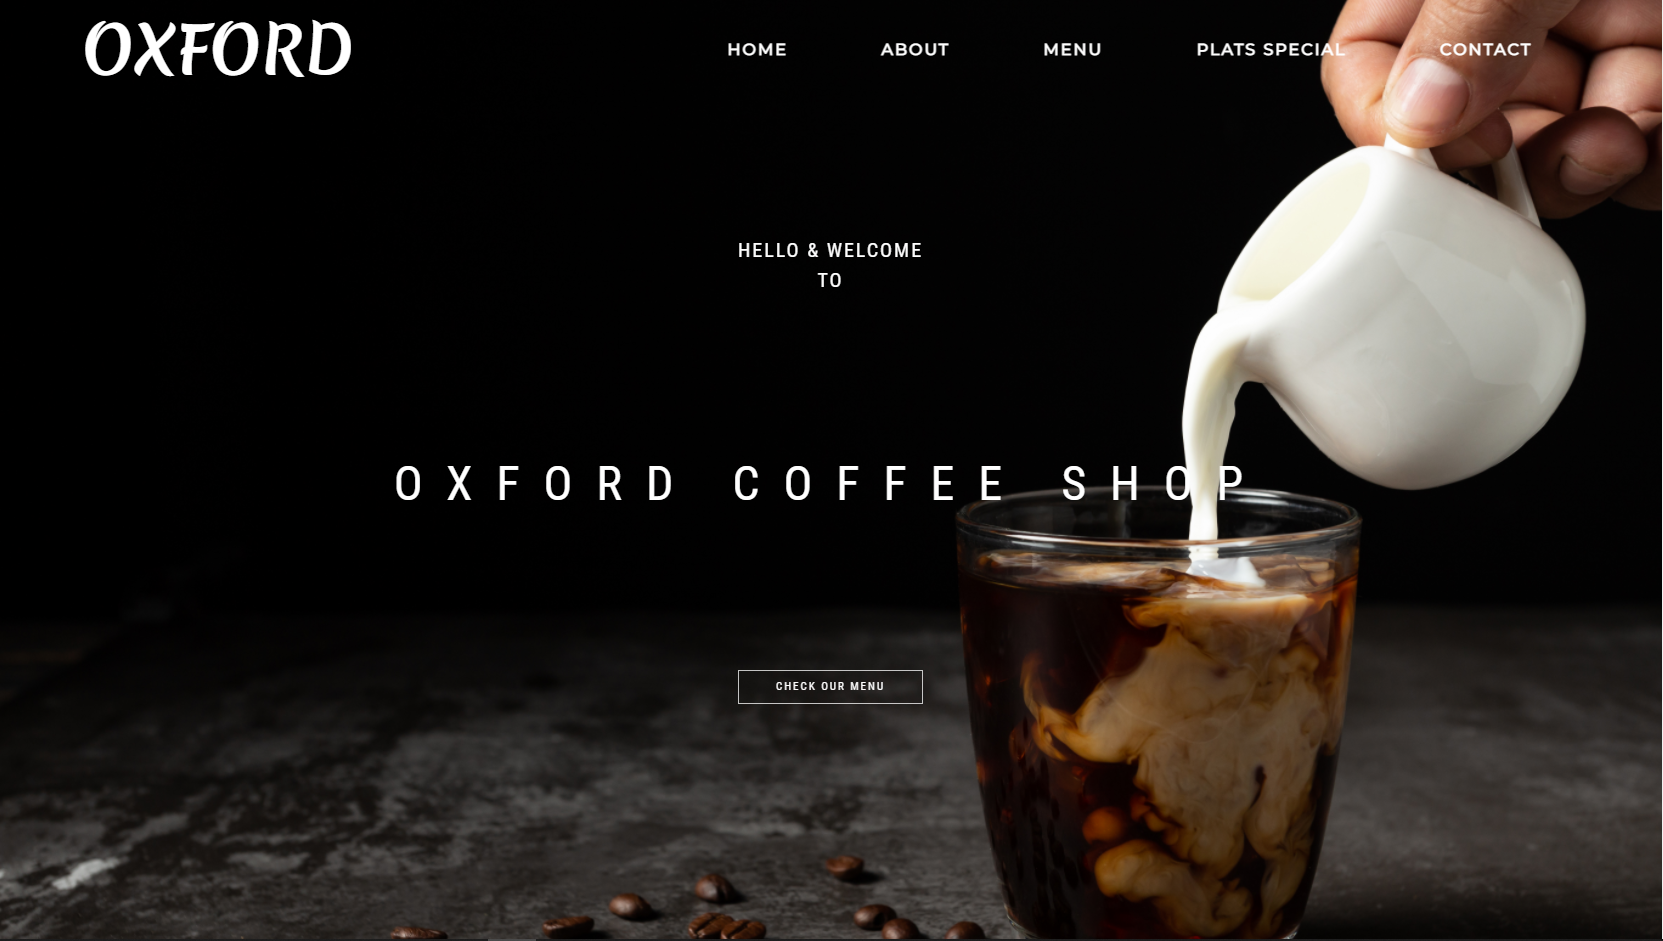
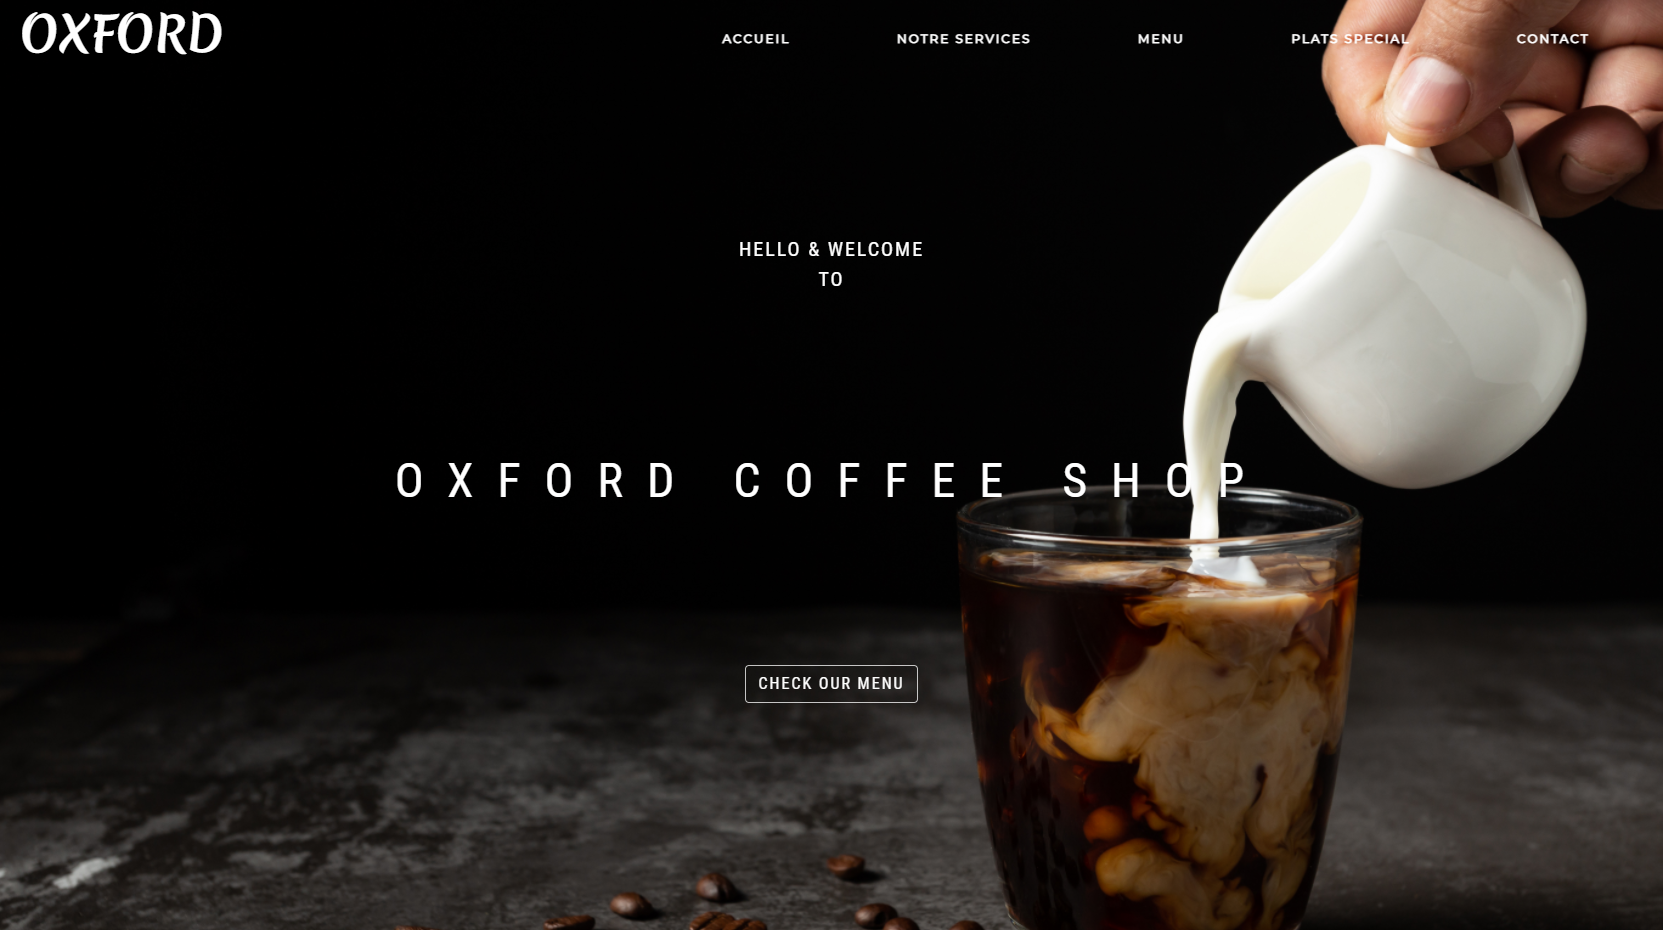
Final commit

diff --git a/index.html b/index.html
@@ -40,8 +40,8 @@
 
             <div class="logo">OXFORD</div>
             <ul class="links">
-                <li><a href="#home">Home</a></li>
-                <li><a href="#services">About</a></li>
+                <li><a href="#home">Accueil</a></li>
+                <li><a href="#services">Notre Services</a></li>
                 <li><a href="#menu">Menu</a></li>
                 <li><a href="#specialities">Plats special</a></li>
                 <li><a href="#footer">Contact</a></li>
@@ -71,13 +71,13 @@
             <div class="row">
                 <div class="col-sm-12 col-sm-offset-2">
                     <div class="alt-module-subtitle">
-                        <h5 class="font-serif">For your comfort</h5>
+                        <h5 class="font-serif">Pour votre confort</h5>
                     </div>
                 </div>
             </div>
             <div class="row">
                 <div class="col-sm-12 col-sm-offset-2">
-                    <h2 class="module-title font-alt">Our Services</h2>
+                    <h2 class="module-title font-alt">Notre Services</h2>
                 </div>
             </div>
 
@@ -89,8 +89,8 @@
                         <div class="features-icon fa-4x">
                             <i class="far fa-clock "></i>
                         </div>
-                        <h3 class="features-title font-alt">Opened 24/7</h3>
-                        Careful attention to detail and clean, well structured code ensures a smooth user experience for all your visitors.
+                        <h3 class="features-title font-alt">Ouvert 24/7</h3>
+                        Lorem ipsum dolor sit amet consectetur adipisicing elit. Consequatur assumenda ab harum praesentium? Ipsa, corrupti.
                     </div>
                 </div>
                 <div class="col-sm-12 col-md-3 col-lg-3">
@@ -98,8 +98,8 @@
                         <div class="features-icon fa-4x">
                             <i class="fas fa-shipping-fast "></i>
                         </div>
-                        <h3 class="features-title font-alt">livreson</h3>
-                        Careful attention to detail and clean, well structured code ensures a smooth user experience for all your visitors.
+                        <h3 class="features-title font-alt">Livreson</h3>
+                        Lorem ipsum dolor sit amet consectetur adipisicing elit. Consequatur assumenda ab harum praesentium? Ipsa, corrupti.
                     </div>
                 </div>
 
@@ -107,8 +107,8 @@
                     <div class="features-icon fa-4x">
                         <i class="fab fa-periscope"></i>
                     </div>
-                    <h3 class="features-title font-alt">Central Location</h3>
-                    Careful attention to detail and clean, well structured code ensures a smooth user experience for all your visitors.
+                    <h3 class="features-title font-alt">Localisation</h3>
+                    Lorem ipsum dolor sit amet consectetur adipisicing elit. Consequatur assumenda ab harum praesentium? Ipsa, corrupti.
                 </div>
 
 
@@ -117,8 +117,8 @@
                         <div class="features-icon fa-4x">
                             <i class="far fa-heart"></i>
                         </div>
-                        <h3 class="features-title font-alt">High quality</h3>
-                        Careful attention to detail and clean, well structured code ensures a smooth user experience for all your visitors.
+                        <h3 class="features-title font-alt">Haute Qualité</h3>
+                        Lorem ipsum dolor sit amet consectetur adipisicing elit. Consequatur assumenda ab harum praesentium? Ipsa, corrupti.
                     </div>
                 </div>
             </div>
@@ -288,6 +288,11 @@
                         <small id="positionHelp" class="form-text text-muted">We'll never share your numbre with anyone else.</small>
                     </div>
                     <div class="form-group">
+                        <label for="exampleInputPassword1">E-mail</label>
+                        <input type="email" class="form-control" placeholder="Telephone">
+                        <small id="positionHelp" class="form-text text-muted">We'll never share your email with anyone else.</small>
+                    </div>
+                    <div class="form-group">
                         <label for="exampleFormControlSelect1">Ton Ordre</label>
                         <select class="form-control" id="exampleFormControlSelect1">
                           <option>ordre 1</option>
@@ -303,7 +308,7 @@
                         <label class="form-check-label" for="exampleCheck1">accepter les <a href="#">conditions</a></label>
                     </div>
 
-                    <button class="btn btn-outline-secondary">
+                    <button class="btn btn-outline-secondary demanderenligne">
                             <i class="fa fa-paper-plane" style="margin-right: 10px;"></i>DEMANDER
                         </button>
                 </form>

diff --git a/style.css b/style.css
@@ -74,6 +74,7 @@ nav.black {
 
 nav.black .logo {
     padding-top: 0;
+    padding-left: 35px;
     height: 10%;
     width: 15%;
     font-size: 2em;

diff --git a/README.md b/README.md
@@ -15,4 +15,5 @@ C'est une template du site from scratch.
 
 # capture
 voir le dossier capture
-
+# les participents 
+voir le dossier capture (Capture13 et Capture)
